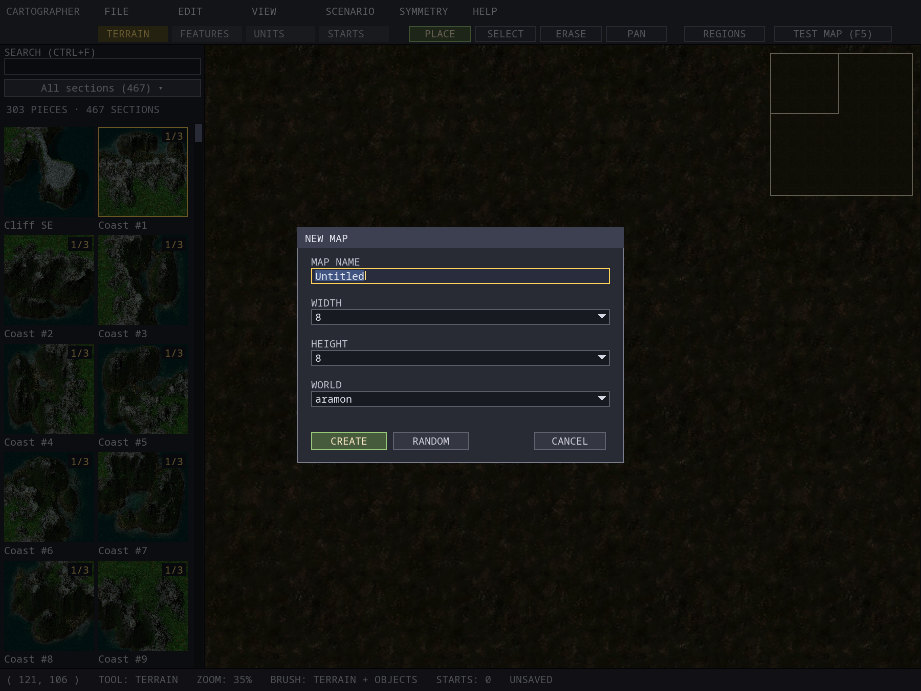
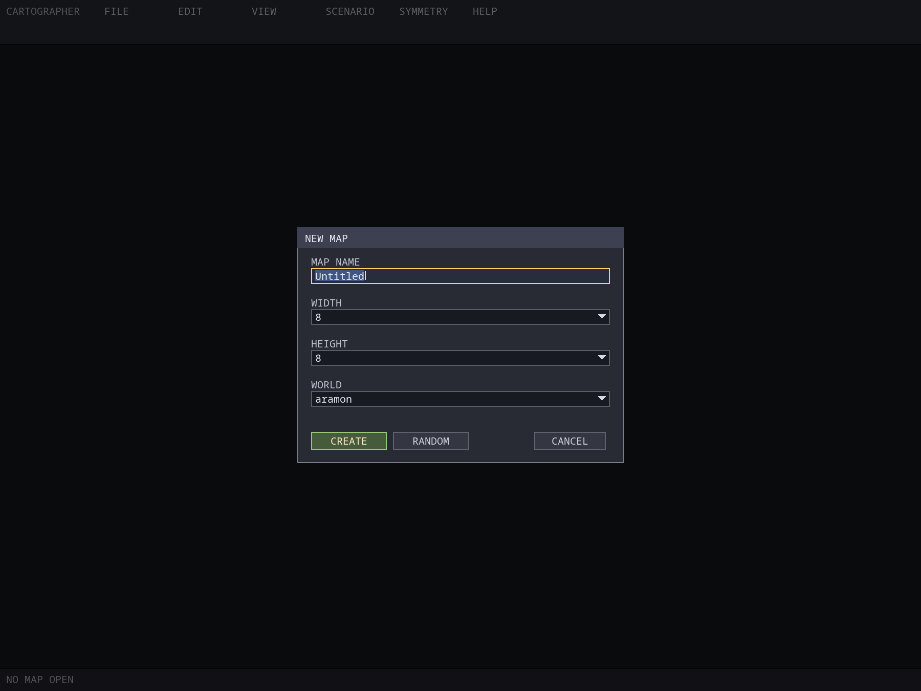
0.8.13 screenshots: title, Cartographer empty window and New Map
- title.jpg retaken by the 0.8.13 build (VERSION 0.8.13); README alt text
  and gallery footnote name 0.8.13.
- cartographer/new-map.jpg retaken: the New Map dialog opened with
  File > New map over the empty window (it showed the old bare launch,
  the dialog over a placeholder map); caption and alt text updated.
- cartographer/empty-window.jpg added: the empty start window (NO MAP
  OPEN hint and status bar), shown in the guide's "The first screen".
- docs/img/README.md: 0.8.13 notes, rows and capture method (the
  blank-launch UI workflow with an uncommitted capture patch). No picture
  showed the removed armed-order banner, so none was retaken for it.

Claude-Session: https://claude.ai/code/session_01NfQnyMZiQLqDRRnw4HG4by

diff --git a/docs/img/README.md b/docs/img/README.md
@@ -1,12 +1,22 @@
 # README and user-guide screenshots
 
-Refreshed on 2026-10-23 for **0.8.12**. The 0.8.12 build (version set to
-0.8.12 locally, ahead of the release commit; no capture patch was needed)
-retook `title.jpg` (VERSION 0.8.12) the same way as for 0.8.11. No other
-picture shows what 0.8.12 changed. The lobby and room pictures show no AI seat
+Refreshed on 2026-10-24 for **0.8.13**. The 0.8.13 build (version set to
+0.8.13 locally, ahead of the release commit; no capture patch was needed for the
+game) retook `title.jpg` (VERSION 0.8.13) the same way as for 0.8.12; only the
+version digits differ from the 0.8.12 file. Cartographer now opens to an empty
+window, so `cartographer/new-map.jpg` was retaken (the New Map dialog opened with
+File → New map over that window, where it used to sit over a placeholder map) and
+`cartographer/empty-window.jpg` was added; see the Cartographer section below.
+0.8.13 also drops the in-game text banner shown while an order is armed (ATTACK:
+CLICK TARGET and the like); no picture showed it (every game, guide and quick-start
+picture was checked by eye where the banner drew, under the top-left corner), so
+none was retaken for it.
+
+**0.8.12** retook `title.jpg` (VERSION 0.8.12, since retaken for 0.8.13) the same
+way as for 0.8.11. No other picture showed what 0.8.12 changed. The lobby and room pictures show no AI seat
 at level 6, so the RETAIL name does not appear in them (see below). The campaign
-order hint (ATTACK: CLICK TARGET...) now sits below the objectives panel, but no
-picture shows an order armed in a mission: `guide/campaign-briefing.jpg` shows
+order hint (ATTACK: CLICK TARGET...) then sat below the objectives panel (0.8.13
+removed the hint), but no picture showed an order armed in a mission: `guide/campaign-briefing.jpg` shows
 the paused briefing with the objectives button only. The Shift-queued flyer
 patrol has no picture. The Cartographer AI Profiles pictures
 (`cartographer/ai-profiles.jpg`, `ai-group-rules.jpg`, `ai-takengine.jpg` and
@@ -153,7 +163,7 @@ simulation code. Every scene runs the normal game rules, AI and renderer.
 
 | Image | Scene |
 | --- | --- |
-| `title.jpg` | Title menu showing version 0.8.12 (0.8.12 build), 1920 × 1080 window cropped to the 1440 × 1080 artwork |
+| `title.jpg` | Title menu showing version 0.8.13 (0.8.13 build), 1920 × 1080 window cropped to the 1440 × 1080 artwork |
 | `battle.jpg` | **Benchmark** run (Settings → Benchmark, Absurd intensity) on Ulasem Arena, 55 game seconds in. Eight server AIs fight, all five sides. The camera, at 1.3× zoom, shows Aramon (magenta) and Taros (yellow) armies, with Black Dragons, clashing at a sandy arena; damaged units of every side show health bars. A real feature with no fixture; spectator view, so no fog. Rendered by the 0.8.8 build |
 | `dragons.jpg` | **Development scene.** Five server AIs, one per side, from a stress-test start (300-unit cap) with gods on, 90 game seconds in. Creon Neo Dragons breathe fire on an Aramon siege column; health bars show for every side. Spectator view, 1.4× zoom. Rendered by the 0.8.8 build |
 | `flyers.jpg` | **Development scene, spawned.** Legion pathfinding, 22 s after one move order east-south-east. A 44-unit Zhon formation: Trolls, Stone Giants and Jungle Orcs, with Gryphons, Harpies and Drakes holding rows of stations over the front of the ground (new in 0.8.0, protocol 254; before, over its middle). `1F`, solid green, marks members of formation 1. Nothing is selected, so the information bar is empty (0.8.1). Fog off, 1.45× zoom. Rendered by the 0.8.8 build (protocol 288) |
@@ -262,8 +272,8 @@ composed, so no browser cell or tree is a placeholder.
   `symmetry-stamp.jpg`, `terrain-clipboard.jpg` and `features-select.jpg` put two
   crops side by side under text labels, and `menus.jpg` puts six crops of the
   opened menus together (each with only its own menu title).
-- **Encoding.** JPEG, full chroma resolution, quality 86, not scaled. The 29
-  files total about 3.2 MB.
+- **Encoding.** JPEG, full chroma resolution, quality 86, not scaled (some AI
+  Profiles pictures at 98, below). The 32 files total about 3.8 MB.
 - **AI Profiles.** `ai-profiles.jpg` and `ai-group-rules.jpg` were added on
   2026-10-23 with the AI Profiles window (branch `task-carto-ai`, after
   0.8.11), not by the capture driver: they are the window captures that the
@@ -285,6 +295,15 @@ composed, so no browser cell or tree is a placeholder.
   workflow's `-aimod.png` (SDL `offscreen`, 921 × 691, scratch data root and
   profile), not cropped, so the empty editor behind the window shows; quality
   98, full chroma.
+- **Empty window.** `empty-window.jpg` and `new-map.jpg` were taken for 0.8.13
+  (on 2026-10-24, by the 0.8.13 build) from the `cartographer_ui_test`
+  workflow `blank-launch` (a bare launch, fresh scratch profile, SDL
+  `offscreen`, 921 × 691, scratch data root of linked retail archives), with
+  `TAK_EDITOR_TEST_CAPTURE` naming a prefix and a capture-only patch, not
+  committed, that also writes `<prefix>-empty.png` right after the first run's
+  welcome is closed (before the workflow's inert clicks and keys) and
+  `<prefix>-newmap.png` when File → New map has opened the dialog. Whole window,
+  quality 86, full chroma; nothing was edited or saved.
 - **Toolbar.** Every whole-window picture except `blocked.jpg` predates the
   BLOCKED tool, so its toolbar shows four tool buttons where the editor now has
   five.
@@ -292,7 +311,8 @@ composed, so no browser cell or tree is a placeholder.
 | Image | Scene |
 | --- | --- |
 | `window-annotated.jpg` | Ulasem Arena, Terrain tool, view centred on the arena at 35%, whole window. Markers 1–13: menu bar, tools, modes, REGIONS, TEST MAP, search, group button, counter line, variant badge, scrollbar, canvas, minimap, status bar |
-| `new-map.jpg` | Bare launch with a fresh profile: the New Map dialog over the blank Untitled 8 × 8 Aramon map, whole window |
+| `empty-window.jpg` | New in 0.8.13. Bare launch with a fresh profile, the first run's welcome closed: the empty window, title *Cartographer*, menu bar only, an empty toolbar, the centred NO MAP OPEN hint naming File → New map (Ctrl+N), Open map (Ctrl+O) and the AI mod commands, and NO MAP OPEN in the status bar. Whole window |
+| `new-map.jpg` | Retaken for 0.8.13. The same bare launch after File → New map: the New Map dialog (Untitled, 8 × 8, aramon) over the dimmed empty window, with NO MAP OPEN in the status bar. Whole window. Before 0.8.13 a bare launch opened this dialog by itself over an Untitled placeholder map |
 | `random-generator.jpg` | Recaptured for 0.8.5 by the same driver, linked against the 0.8.5 editor. Composite. Left: Random Map Settings (seed 2026, 4 players, Aramon Riverlands, 16 × 16, SCATTERED MANA (BY MAP AREA) set to Medium, other fields default). Right: the Generated Map Preview it produced. Dialog crops; the settings dialog is taller than before (twelve fields) |
 | `terrain-groups.jpg` | Ulasem Arena, the terrain group list open, whole window |
 | `terrain-variant.jpg` | Ulasem Arena, Cliff W clicked twice (variant 2/3) with the pointer on it, so the status bar shows its full name. Crop of the left 470 px |
@@ -379,7 +399,7 @@ Capture scripts, job lists and the encoder are in the release-preparation
 scratch directories, `$SCR/shared/release-0.7.26/shots`,
 `$SCR/shared/release-0.7.27/shots`, `$SCR/shared/release-0.7.28/shots`,
 `$SCR/shared/release-0.8.0/shots`, `$SCR/shared/release-0.8.1/shots`,
-`$SCR/shared/release-0.8.2/shots`, `$SCR/shared/release-0.8.3/shots`, `$SCR/shared/release-0.8.4/shots`, `~/tak-tmp/scratch/release-085/shots`, `~/tak-tmp/scratch/release-086/shots`, `~/tak-tmp/scratch/release-087/shots`, `~/tak-tmp/scratch/release-088/shots`, `~/tak-tmp/scratch/release-089/shots`, `~/tak-tmp/scratch/release-0810/shots`, `~/tak-tmp/scratch/release-0811/shots` and `~/tak-tmp/scratch/release-0812/shots`. Raw PNGs, logs, profiles
+`$SCR/shared/release-0.8.2/shots`, `$SCR/shared/release-0.8.3/shots`, `$SCR/shared/release-0.8.4/shots`, `~/tak-tmp/scratch/release-085/shots`, `~/tak-tmp/scratch/release-086/shots`, `~/tak-tmp/scratch/release-087/shots`, `~/tak-tmp/scratch/release-088/shots`, `~/tak-tmp/scratch/release-089/shots`, `~/tak-tmp/scratch/release-0810/shots`, `~/tak-tmp/scratch/release-0811/shots`, `~/tak-tmp/scratch/release-0812/shots` and `~/tak-tmp/scratch/release-0813/shots`. Raw PNGs, logs, profiles
 and the SHA-256 manifest are kept locally in the worktree's ignored
 `build-o2/capture` folder. Keep retail archives, extracted assets and temporary
 capture files out of Git. When refreshing, rerender and inspect every view, then

diff --git a/README.md b/README.md
@@ -12,7 +12,7 @@ A clean-room C++20 / SDL2 recreation of Cavedog's 1999 fantasy RTS.
 
 [Download](https://github.com/pocketgeek/tak-engine/releases/latest) · [Getting started](#getting-started) · [Quick-start controls](docs/quick-start.md) · [User guide](docs/user-guide.md) · [Map editor guide](docs/cartographer-guide.md) · [Build from source](docs/development.md)
 
-<a href="docs/img/title.jpg"><img src="docs/img/title.jpg" width="72%" alt="TAK Engine title screen with its three doors and version 0.8.12"></a>
+<a href="docs/img/title.jpg"><img src="docs/img/title.jpg" width="72%" alt="TAK Engine title screen with its three doors and version 0.8.13"></a>
 
 <table>
   <tr>
@@ -40,7 +40,7 @@ A clean-room C++20 / SDL2 recreation of Cavedog's 1999 fantasy RTS.
   </tr>
 </table>
 
-<sub>Captured from the 0.7.25 to 0.8.12 builds. The battle is a real benchmark run; dragon, flyer and naval views and the HUD's army are development scenes; results use sample statistics. See the <a href="docs/img/README.md">capture notes</a>.</sub>
+<sub>Captured from the 0.7.25 to 0.8.13 builds. The battle is a real benchmark run; dragon, flyer and naval views and the HUD's army are development scenes; results use sample statistics. See the <a href="docs/img/README.md">capture notes</a>.</sub>
 
 </div>
 

diff --git a/docs/cartographer-guide.md b/docs/cartographer-guide.md
@@ -142,11 +142,15 @@ save, so closing Cartographer straight away asks nothing. A map named when Carto
 starts that cannot be opened shows **OPEN FAILED** and then the same empty
 window.
 
+![The Cartographer window with no map open: the menu bar FILE, EDIT, VIEW, SCENARIO, SYMMETRY and HELP over an empty toolbar and a dark, empty middle that reads NO MAP OPEN, then File > New map (Ctrl+N) or Open map (Ctrl+O), then AI mods: File > New AI mod or Open AI mod; the status bar at the bottom also reads NO MAP OPEN](img/cartographer/empty-window.jpg)
+
+*The empty window that a bare launch opens. Nothing is drawn until a map is open.*
+
 ### The New Map dialog
 
-![The NEW MAP dialog: map name Untitled, width 8, height 8, world aramon, with CREATE, RANDOM and CANCEL buttons](img/cartographer/new-map.jpg)
+![The NEW MAP dialog over the dimmed empty window, whose status bar reads NO MAP OPEN: map name Untitled, width 8, height 8, world aramon, with CREATE, RANDOM and CANCEL buttons](img/cartographer/new-map.jpg)
 
-*The **New Map** dialog.*
+*The **New Map** dialog, opened with **File → New map** over the empty window.*
 
 | Field | Choices |
 | --- | --- |
